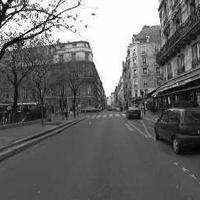
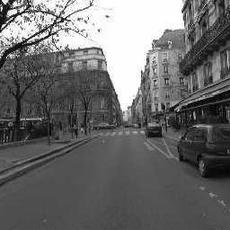
updated gifs/images to be a bit bigger for gradcpt, and gifs to be a bit shorter

diff --git a/pilotA/js/instructions.js b/pilotA/js/instructions.js
@@ -46,9 +46,9 @@ var cpt_task_instructions = {
       "<p>In this task, an image will appear in the center of the screen.</p><p>\
       If the image is a <strong>city</strong> press enter on the keyboard as fast as you can.</p><p>\
       If the image is a <strong>mountain</strong>, do not press a key.</p>\
-      <div style='width: 700px;'><div style='float: left;'><img src='./img900_esterman/city_1.jpg'></img>\
+      <div style='width: 700px;'><div style='float: left;'><img src='./img875_esterman/city_1.jpg'></img>\
       <p class='small'><strong>Press the enter key</strong></p></div>\
-      <div style='float: right;'><img src='./img900_esterman/mountain_1.jpg'></img>\
+      <div style='float: right;'><img src='./img875_esterman/mountain_1.jpg'></img>\
       <p class='small'><strong>Do not press a key</strong></p></div>\
       </div>",
     ],

diff --git a/pilotA/js/gradcpt.js b/pilotA/js/gradcpt.js
@@ -81,14 +81,14 @@ var random_stimulus_list = function(num_trials) {
 
     // transform the keys into image files
     for (const key of key_stim_list) {
-        final_stim_list.push("./img900_esterman/" + stim_dict[key])
+        final_stim_list.push("./img875_esterman/" + stim_dict[key])
     }
     return final_stim_list;
 };
 
 // PRELOADING
 var preload_stim = []
-var path_to_img = "./img900_esterman/"
+var path_to_img = "./img875_esterman/"
 for (let i = 0; i < all_stim.length; i++) {
     preload_stim.push(path_to_img + all_stim[i]);
 }

diff --git a/pre-pilot/spatial_recall_grad_cpt/stimuli_creation/interpolate_gif.py b/pre-pilot/spatial_recall_grad_cpt/stimuli_creation/interpolate_gif.py
@@ -1,7 +1,7 @@
 from PIL import Image, ImageChops
 import numpy as np
 
-# At 30 fps, the number of frames in 0.90 seconds is 0.90 × 30 = 27 $ previously 29
+# At 30 fps, the number of frames in 0.875 seconds is 0.875 × 30 = 26 $ previously 29
 def interpolate_images(imageA, imageB, steps=27):
     """Generate a list of images interpolating between imageA and imageB."""
     frames = []
@@ -20,8 +20,9 @@ def load_and_resize_images(pathA, pathB):
     imageB = Image.open(B_path).convert('L')
     
     # used to be 100 by 150
-    target_width=200
-    target_height= 200
+    # then 200 by 200
+    target_width=230
+    target_height= 230
     
     # Resize both images
     resizedA = imageA.resize((target_width, target_height), Image.Resampling.LANCZOS)
@@ -47,13 +48,16 @@ image_list = []
 for i in range(1,11):
     image_list.append(f'city_{i}')
 image_list.append('mountain_1')
+image_list.append('white_1') # white background that we can transition from in the first trial and transition to in the last trial 
 
-save_path = './stimuli/final_gifs_900_esterman/'
+save_path = './stimuli/final_gifs_900_esterman_bigger/'
 for image_a in image_list:
     image_a_fname = image_a.split('_')
     export_a = save_path
     if (image_a_fname[0]=="city"):
         export_a = export_a + "c" + image_a_fname[1] + "_"
+    elif (image_a_fname[0]=="white"):
+        export_a = export_a + "white" + image_a_fname[1] + "_"
     else:
         export_a = export_a + "m" + image_a_fname[1] + "_"
     
@@ -64,6 +68,8 @@ for image_a in image_list:
         image_b_fname = image_b.split('_')
         if (image_b_fname[0]=="city"):
             export = export + "c" + image_b_fname[1] + ".gif"
+        elif(image_b_fname[0]=="white"):
+            export = export + "white1.gif"
         else:
             export = export + "m" + image_b_fname[1] + ".gif"
         
@@ -71,4 +77,4 @@ for image_a in image_list:
         fn_image_b = image_b + ".jpg"
         imageA, imageB = load_and_resize_images(fn_image_a,fn_image_b)
         frames = interpolate_images(imageA, imageB)
-        frames[0].save(export, save_all=True, append_images=frames[1:], duration=900/len(frames), loop=0)
+        frames[0].save(export, save_all=True, append_images=frames[1:], duration=875/len(frames), loop=0)
